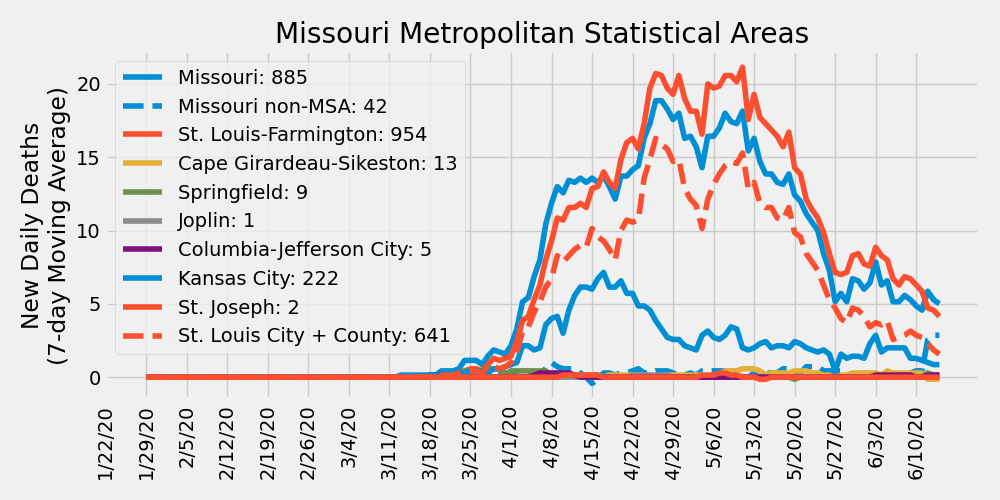
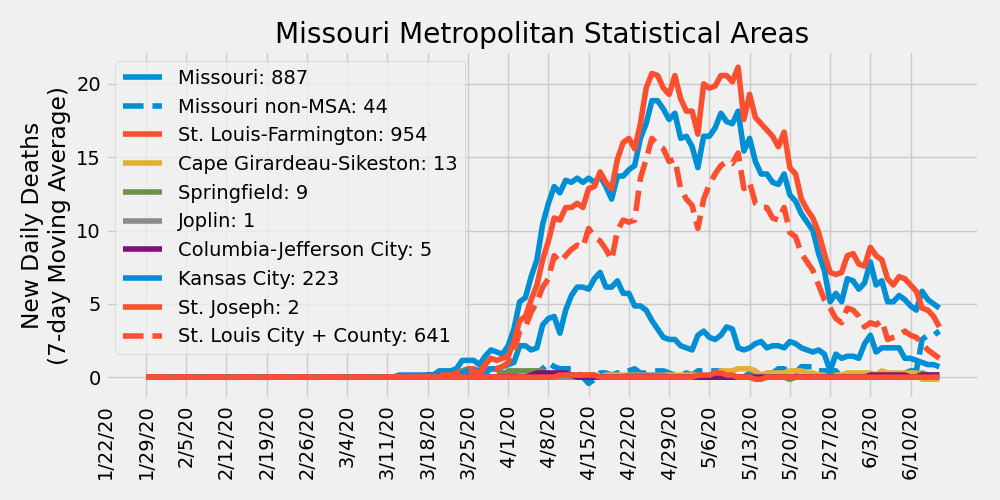
update 6/16/2020

diff --git a/ajvogt-analysis/missouri_analysis.md b/ajvogt-analysis/missouri_analysis.md
@@ -1,6 +1,6 @@
 # COVID-19 Missouri Statistics & Regional Breakdowns
 Author: Adam J. Vogt  
-Updated: 06/15/2020  
+Updated: 06/16/2020  
 Source: [COVID-19 Data Repository by the Center for Systems Science and Engineering (CSSE) at Johns Hopkins University](https://github.com/CSSEGISandData/COVID-19)  
 Source Code: `/ajvogt-analysis/mo_analysis_script.py`
 
@@ -17,127 +17,127 @@ Legend shows cumulative confirmed cases
 |-----|-------|--------|---|---|---|
 | St. Louis-Farmington | Missouri | Lincoln | 87 | -22 | -34 |
 | St. Louis-Farmington | Missouri | Warren | 30 | 2 | 1 |
-| St. Louis-Farmington | Missouri | Franklin | 166 | 27 | 16 |
-| St. Louis-Farmington | Missouri | Jefferson | 376 | 27 | -22 |
-| St. Louis-Farmington | Missouri | St. Charles | 890 | 110 | 52 |
-| St. Louis-Farmington | Missouri | St. Louis | 5536 | 489 | 213 |
-| St. Louis-Farmington | Missouri | St. Louis City | 2195 | 240 | 124 |
-| St. Louis-Farmington | Missouri | St. Francois | 40 | 5 | 1 |
-| St. Louis-Farmington | Illinois | Monroe | 109 | 14 | 8 |
-| St. Louis-Farmington | Illinois | St. Clair | 1446 | 309 | 132 |
-| St. Louis-Farmington | Illinois | Madison | 720 | 140 | 81 |
+| St. Louis-Farmington | Missouri | Franklin | 168 | 27 | 15 |
+| St. Louis-Farmington | Missouri | Jefferson | 378 | 15 | -29 |
+| St. Louis-Farmington | Missouri | St. Charles | 910 | 123 | 66 |
+| St. Louis-Farmington | Missouri | St. Louis | 5604 | 510 | 231 |
+| St. Louis-Farmington | Missouri | St. Louis City | 2219 | 245 | 111 |
+| St. Louis-Farmington | Missouri | St. Francois | 42 | 7 | 1 |
+| St. Louis-Farmington | Illinois | Monroe | 112 | 16 | 8 |
+| St. Louis-Farmington | Illinois | St. Clair | 1465 | 313 | 146 |
+| St. Louis-Farmington | Illinois | Madison | 733 | 139 | 91 |
 | St. Louis-Farmington | Illinois | Macoupin | 45 | 0 | -1 |
-| St. Louis-Farmington | Illinois | Jersey | 28 | 4 | 2 |
-| St. Louis-Farmington | Illinois | Clinton | 209 | 23 | 16 |
+| St. Louis-Farmington | Illinois | Jersey | 28 | 4 | 3 |
+| St. Louis-Farmington | Illinois | Clinton | 213 | 27 | 20 |
 | St. Louis-Farmington | Illinois | Calhoun | 1 | 0 | 0 |
 | St. Louis-Farmington | Illinois | Bond | 12 | 0 | 0 |
-| Cape Girardeau-Sikeston | Missouri | Cape Girardeau | 104 | 31 | 19 |
-| Cape Girardeau-Sikeston | Missouri | Bollinger | 9 | 3 | 2 |
-| Cape Girardeau-Sikeston | Illinois | Alexander | 17 | 9 | 1 |
-| Cape Girardeau-Sikeston | Missouri | Scott | 139 | 29 | 18 |
-| Springfield | Missouri | Greene | 188 | 37 | 14 |
-| Springfield | Missouri | Christian | 29 | 6 | 0 |
-| Springfield | Missouri | Webster | 18 | 1 | 0 |
-| Springfield | Missouri | Polk | 8 | 5 | 4 |
+| Cape Girardeau-Sikeston | Missouri | Cape Girardeau | 108 | 34 | 21 |
+| Cape Girardeau-Sikeston | Missouri | Bollinger | 10 | 4 | 3 |
+| Cape Girardeau-Sikeston | Illinois | Alexander | 17 | 9 | 2 |
+| Cape Girardeau-Sikeston | Missouri | Scott | 145 | 37 | 22 |
+| Springfield | Missouri | Greene | 193 | 38 | 17 |
+| Springfield | Missouri | Christian | 30 | 6 | 1 |
+| Springfield | Missouri | Webster | 18 | 0 | 0 |
+| Springfield | Missouri | Polk | 10 | 7 | 6 |
 | Springfield | Missouri | Dallas | 6 | 3 | 1 |
-| Joplin | Missouri | Jasper | 122 | 85 | 66 |
-| Joplin | Missouri | Newton | 62 | 44 | 36 |
+| Joplin | Missouri | Jasper | 139 | 102 | 77 |
+| Joplin | Missouri | Newton | 79 | 60 | 51 |
 | Columbia-Jefferson City | Missouri | Howard | 3 | 0 | 0 |
-| Columbia-Jefferson City | Missouri | Boone | 208 | 56 | 19 |
+| Columbia-Jefferson City | Missouri | Boone | 215 | 62 | 22 |
 | Columbia-Jefferson City | Missouri | Cooper | 9 | 0 | 0 |
 | Columbia-Jefferson City | Missouri | Moniteau | 49 | 2 | 0 |
-| Columbia-Jefferson City | Missouri | Cole | 57 | -3 | -4 |
-| Columbia-Jefferson City | Missouri | Callaway | 36 | 7 | 3 |
-| Columbia-Jefferson City | Missouri | Osage | 5 | 0 | 0 |
-| Kansas City | Missouri | Kansas City | 1690 | 508 | 163 |
-| Kansas City | Missouri | Jackson | 819 | 223 | 117 |
-| Kansas City | Missouri | Clay | 288 | 115 | 55 |
-| Kansas City | Missouri | Cass | 111 | 21 | 9 |
-| Kansas City | Missouri | Platte | 97 | 27 | 20 |
+| Columbia-Jefferson City | Missouri | Cole | 57 | -4 | -4 |
+| Columbia-Jefferson City | Missouri | Callaway | 40 | 11 | 6 |
+| Columbia-Jefferson City | Missouri | Osage | 5 | 0 | -1 |
+| Kansas City | Missouri | Kansas City | 1737 | 518 | 172 |
+| Kansas City | Missouri | Jackson | 865 | 252 | 149 |
+| Kansas City | Missouri | Clay | 293 | 120 | 53 |
+| Kansas City | Missouri | Cass | 114 | 21 | 10 |
+| Kansas City | Missouri | Platte | 98 | 28 | 19 |
 | Kansas City | Missouri | Lafayette | 85 | 11 | 4 |
 | Kansas City | Missouri | Ray | 25 | 6 | 2 |
-| Kansas City | Missouri | Clinton | 20 | 2 | 0 |
-| Kansas City | Missouri | Bates | 12 | 5 | 0 |
-| Kansas City | Missouri | Caldwell | 7 | 2 | -1 |
-| Kansas City | Kansas | Johnson | 1061 | 249 | 121 |
-| Kansas City | Kansas | Wyandotte | 1660 | 323 | 164 |
-| Kansas City | Kansas | Leavenworth | 1106 | 24 | 6 |
+| Kansas City | Missouri | Clinton | 21 | 3 | 1 |
+| Kansas City | Missouri | Bates | 12 | 3 | 0 |
+| Kansas City | Missouri | Caldwell | 7 | 1 | -1 |
+| Kansas City | Kansas | Johnson | 1075 | 231 | 127 |
+| Kansas City | Kansas | Wyandotte | 1698 | 339 | 176 |
+| Kansas City | Kansas | Leavenworth | 1109 | 16 | 6 |
 | Kansas City | Kansas | Miami | 16 | 9 | 9 |
-| Kansas City | Kansas | Linn | 11 | 0 | 0 |
+| Kansas City | Kansas | Linn | 12 | 1 | 1 |
 | St. Joseph | Missouri | Andrew | 35 | 5 | 2 |
-| St. Joseph | Missouri | Buchanan | 784 | 92 | 36 |
-| St. Joseph | Missouri | DeKalb | 8 | 2 | 1 |
-| St. Joseph | Kansas | Doniphan | 20 | 5 | 2 |
-| Missouri non-MSA | Missouri | Adair | 80 | 25 | 8 |
+| St. Joseph | Missouri | Buchanan | 787 | 78 | 33 |
+| St. Joseph | Missouri | DeKalb | 9 | 3 | 2 |
+| St. Joseph | Kansas | Doniphan | 20 | 3 | 0 |
+| Missouri non-MSA | Missouri | Adair | 83 | 23 | 11 |
 | Missouri non-MSA | Missouri | Atchison | 3 | 0 | 0 |
-| Missouri non-MSA | Missouri | Audrain | 122 | 40 | 11 |
-| Missouri non-MSA | Missouri | Barry | 10 | 1 | 1 |
-| Missouri non-MSA | Missouri | Barton | 1 | 1 | 1 |
+| Missouri non-MSA | Missouri | Audrain | 122 | 37 | 5 |
+| Missouri non-MSA | Missouri | Barry | 14 | 5 | 5 |
+| Missouri non-MSA | Missouri | Barton | 7 | 7 | 7 |
 | Missouri non-MSA | Missouri | Benton | 14 | 3 | 1 |
-| Missouri non-MSA | Missouri | Butler | 41 | 6 | -6 |
-| Missouri non-MSA | Missouri | Camden | 38 | 0 | 0 |
+| Missouri non-MSA | Missouri | Butler | 46 | 11 | -1 |
+| Missouri non-MSA | Missouri | Camden | 40 | 2 | 2 |
 | Missouri non-MSA | Missouri | Carroll | 10 | 2 | 1 |
 | Missouri non-MSA | Missouri | Carter | 5 | 0 | 0 |
 | Missouri non-MSA | Missouri | Cedar | 9 | 0 | 0 |
 | Missouri non-MSA | Missouri | Chariton | 6 | 0 | 0 |
 | Missouri non-MSA | Missouri | Clark | 1 | 0 | 0 |
-| Missouri non-MSA | Missouri | Crawford | 8 | -1 | -1 |
-| Missouri non-MSA | Missouri | Dade | 0 | 0 | 0 |
+| Missouri non-MSA | Missouri | Crawford | 9 | 0 | 0 |
+| Missouri non-MSA | Missouri | Dade | 1 | 1 | 1 |
 | Missouri non-MSA | Missouri | Daviess | 7 | 3 | 2 |
 | Missouri non-MSA | Missouri | Dent | 1 | 1 | 1 |
 | Missouri non-MSA | Missouri | Douglas | 3 | 3 | 3 |
-| Missouri non-MSA | Missouri | Dunklin | 55 | 17 | 6 |
+| Missouri non-MSA | Missouri | Dunklin | 61 | 16 | 12 |
 | Missouri non-MSA | Missouri | Gasconade | 2 | 0 | 0 |
-| Missouri non-MSA | Missouri | Gentry | 54 | 23 | 2 |
+| Missouri non-MSA | Missouri | Gentry | 54 | 19 | 0 |
 | Missouri non-MSA | Missouri | Grundy | 12 | 12 | 12 |
 | Missouri non-MSA | Missouri | Harrison | 9 | 0 | 0 |
 | Missouri non-MSA | Missouri | Henry | 16 | 4 | 4 |
 | Missouri non-MSA | Missouri | Hickory | 0 | 0 | 0 |
 | Missouri non-MSA | Missouri | Holt | 1 | -1 | -1 |
-| Missouri non-MSA | Missouri | Howell | 20 | 13 | 8 |
-| Missouri non-MSA | Missouri | Iron | 2 | 0 | -1 |
+| Missouri non-MSA | Missouri | Howell | 26 | 19 | 11 |
+| Missouri non-MSA | Missouri | Iron | 2 | -1 | -1 |
 | Missouri non-MSA | Missouri | Knox | 2 | 2 | 2 |
-| Missouri non-MSA | Missouri | Laclede | 9 | 5 | 2 |
+| Missouri non-MSA | Missouri | Laclede | 9 | 4 | 2 |
 | Missouri non-MSA | Missouri | Lawrence | 7 | -1 | -1 |
 | Missouri non-MSA | Missouri | Lewis | 7 | 0 | 0 |
-| Missouri non-MSA | Missouri | Livingston | 7 | 4 | 2 |
-| Missouri non-MSA | Missouri | McDonald | 70 | 50 | 44 |
+| Missouri non-MSA | Missouri | Livingston | 6 | 3 | 1 |
+| Missouri non-MSA | Missouri | McDonald | 78 | 56 | 49 |
 | Missouri non-MSA | Missouri | Macon | 7 | 3 | 1 |
 | Missouri non-MSA | Missouri | Maries | 2 | 0 | 0 |
 | Missouri non-MSA | Missouri | Marion | 8 | 3 | 3 |
 | Missouri non-MSA | Missouri | Mercer | 5 | 5 | 5 |
-| Missouri non-MSA | Missouri | Miller | 4 | 0 | 0 |
-| Missouri non-MSA | Missouri | Mississippi | 71 | 13 | 10 |
-| Missouri non-MSA | Missouri | Montgomery | 12 | 3 | 1 |
+| Missouri non-MSA | Missouri | Miller | 6 | 2 | 2 |
+| Missouri non-MSA | Missouri | Mississippi | 74 | 16 | 11 |
+| Missouri non-MSA | Missouri | Montgomery | 12 | 3 | -1 |
 | Missouri non-MSA | Missouri | Morgan | 9 | 0 | 0 |
-| Missouri non-MSA | Missouri | New Madrid | 35 | 14 | 14 |
-| Missouri non-MSA | Missouri | Nodaway | 15 | 2 | 1 |
+| Missouri non-MSA | Missouri | New Madrid | 35 | 14 | 13 |
+| Missouri non-MSA | Missouri | Nodaway | 15 | 1 | 1 |
 | Missouri non-MSA | Missouri | Oregon | 4 | 2 | 2 |
 | Missouri non-MSA | Missouri | Ozark | 0 | 0 | 0 |
-| Missouri non-MSA | Missouri | Pemiscot | 102 | 19 | 11 |
-| Missouri non-MSA | Missouri | Perry | 84 | 27 | 14 |
-| Missouri non-MSA | Missouri | Pettis | 85 | 7 | 4 |
+| Missouri non-MSA | Missouri | Pemiscot | 104 | 17 | 10 |
+| Missouri non-MSA | Missouri | Perry | 85 | 24 | 14 |
+| Missouri non-MSA | Missouri | Pettis | 86 | 8 | 5 |
 | Missouri non-MSA | Missouri | Phelps | 6 | 2 | 1 |
-| Missouri non-MSA | Missouri | Pike | 31 | 9 | 3 |
-| Missouri non-MSA | Missouri | Pulaski | 106 | 72 | -1 |
+| Missouri non-MSA | Missouri | Pike | 32 | 10 | 4 |
+| Missouri non-MSA | Missouri | Pulaski | 106 | 71 | -1 |
 | Missouri non-MSA | Missouri | Putnam | 1 | 1 | 1 |
 | Missouri non-MSA | Missouri | Ralls | 5 | 0 | 0 |
-| Missouri non-MSA | Missouri | Randolph | 10 | 0 | 0 |
+| Missouri non-MSA | Missouri | Randolph | 11 | 1 | 1 |
 | Missouri non-MSA | Missouri | Reynolds | 2 | 0 | 0 |
 | Missouri non-MSA | Missouri | Ripley | 11 | 4 | 0 |
 | Missouri non-MSA | Missouri | Ste. Genevieve | 14 | 2 | 2 |
-| Missouri non-MSA | Missouri | Saline | 271 | 2 | -12 |
+| Missouri non-MSA | Missouri | Saline | 270 | 1 | -13 |
 | Missouri non-MSA | Missouri | Schuyler | 1 | 1 | 1 |
-| Missouri non-MSA | Missouri | Scotland | 8 | 3 | -1 |
+| Missouri non-MSA | Missouri | Scotland | 8 | 2 | -1 |
 | Missouri non-MSA | Missouri | Shannon | 6 | 6 | 6 |
 | Missouri non-MSA | Missouri | Shelby | 1 | 0 | 0 |
-| Missouri non-MSA | Missouri | Stoddard | 118 | 37 | 12 |
+| Missouri non-MSA | Missouri | Stoddard | 118 | 34 | 12 |
 | Missouri non-MSA | Missouri | Stone | 7 | 3 | -3 |
-| Missouri non-MSA | Missouri | Sullivan | 77 | 18 | 11 |
-| Missouri non-MSA | Missouri | Taney | 15 | 1 | 1 |
+| Missouri non-MSA | Missouri | Sullivan | 77 | 17 | 10 |
+| Missouri non-MSA | Missouri | Taney | 24 | 10 | 10 |
 | Missouri non-MSA | Missouri | Texas | 1 | 0 | 0 |
-| Missouri non-MSA | Missouri | Vernon | 12 | 3 | 1 |
-| Missouri non-MSA | Missouri | Washington | 13 | 2 | 0 |
+| Missouri non-MSA | Missouri | Vernon | 12 | 3 | 0 |
+| Missouri non-MSA | Missouri | Washington | 13 | 1 | 0 |
 | Missouri non-MSA | Missouri | Wayne | 0 | 0 | 0 |
 | Missouri non-MSA | Missouri | Worth | 4 | 0 | 0 |
 | Missouri non-MSA | Missouri | Wright | 14 | 3 | 0 |
